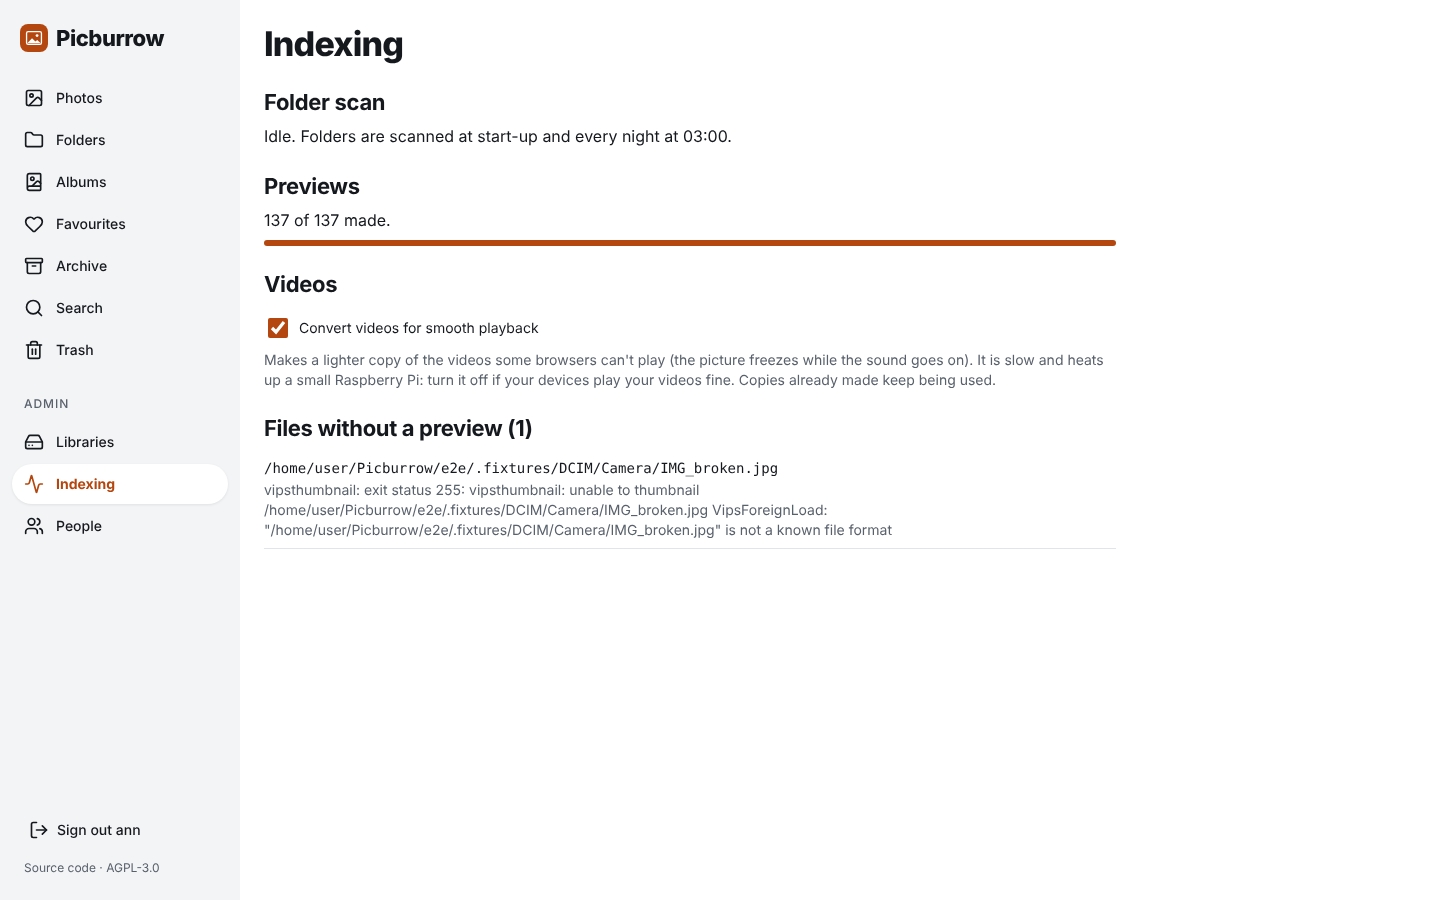
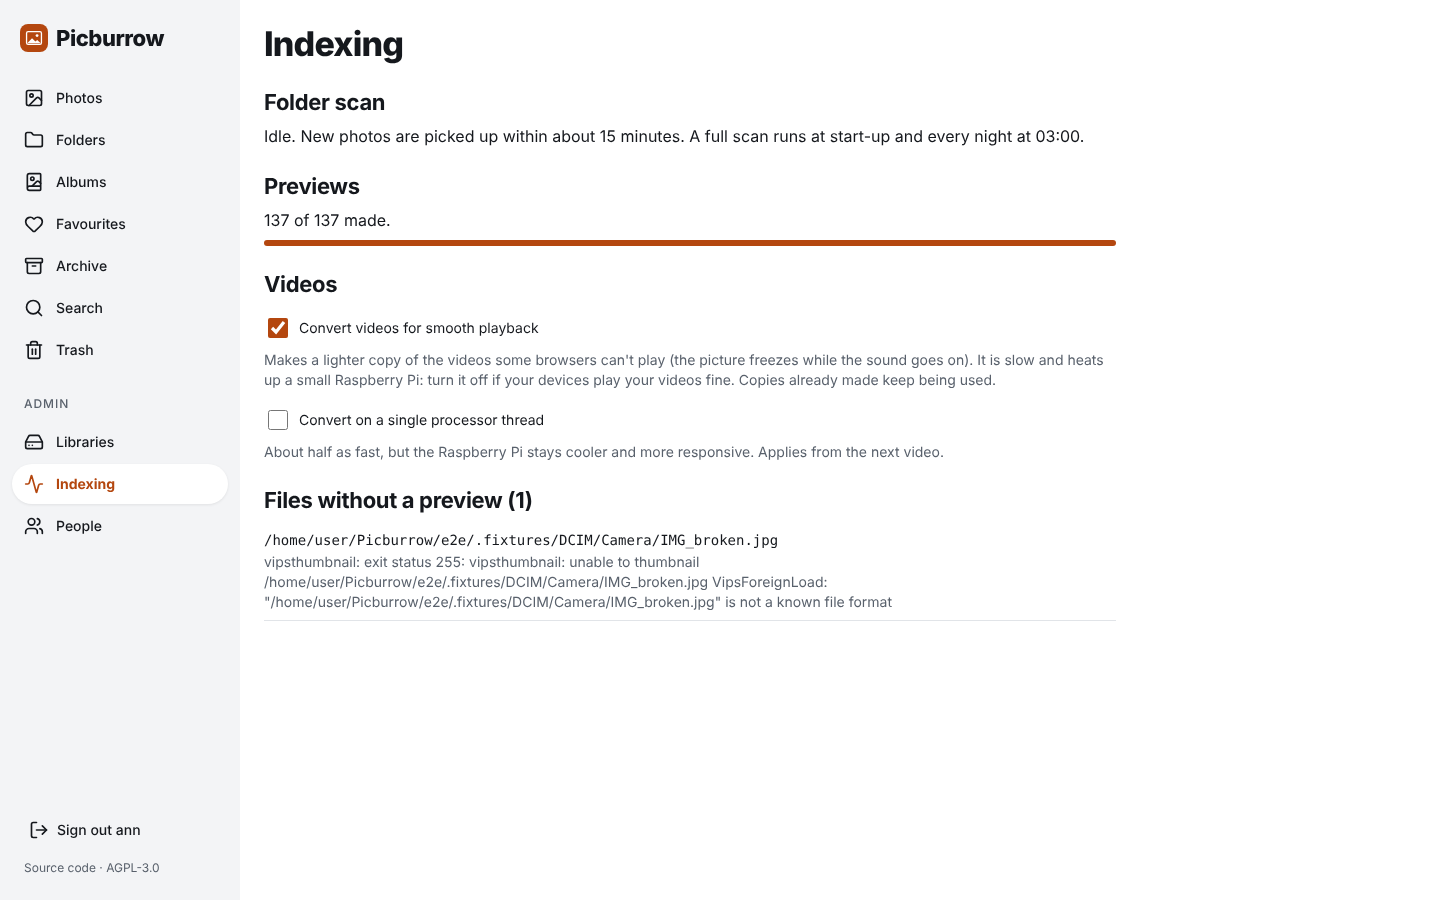
New photos are picked up within 15 minutes
A photo synced at noon used to appear after the 03:00 scan. Every 15 minutes the
server now stats each folder the last scan saw (no folder is read) and scans
only if one changed: a file added, removed or renamed. Files modified in the
last 10 minutes are watched too, since an upload still in progress grows
without touching its folder's time. An offline folder is noticed when it
comes back.

The time of the nightly run is now kept across quick checks, so one that runs
past 03:00 cannot skip the night's scan, session cleanup and trash purge.

Indexing page and landing page say so; features.csv row done; parity 87.9.
Test: TestFoldersChanged.

Claude-Session: https://claude.ai/code/session_01PH99K8F4EezHs6i4AhQLDN

Changed region(s): [[0.1875, 0.4667, 0.6562, 0.6844], [0.2188, 0.1244, 0.75, 0.1556]]

diff --git a/docs/index.html b/docs/index.html
@@ -175,7 +175,7 @@
   <h2>Questions</h2>
   <details><summary>Will it run on my Pi 3?</summary><p>It is built for 64-bit Raspberry Pi OS on a Pi 3, 4 or 5 with 1 GB of memory, and stayed well under that on a 64-bit test machine. Testing on real Pi boards is still in progress, so please tell us what you see.</p></details>
   <details><summary>Does it change my photos?</summary><p>No. It only reads them. Its own data (previews, albums, favourites) lives in a separate folder.</p></details>
-  <details><summary>How do photos get from my phone to the Pi?</summary><p>With the sync app you already use: Syncthing, your NAS's app, anything that copies files into a folder. Picburrow shows whatever lands there.</p></details>
+  <details><summary>How do photos get from my phone to the Pi?</summary><p>With the sync app you already use: Syncthing, your NAS's app, anything that copies files into a folder. Picburrow shows whatever lands there, within about 15 minutes.</p></details>
   <details><summary>Can I move over from another photo app?</summary><p>If that app keeps your originals in normal folders, point Picburrow at them. Albums and faces from other apps are not imported.</p></details>
   <details><summary>Does it recognise faces, or search for "beach"?</summary><p>No, on purpose. Those need several gigabytes of memory, which is exactly what Picburrow exists to avoid.</p></details>
   <details><summary>Can I see my photos away from home?</summary><p>Yes. The easiest safe way is Tailscale: a free app on the Pi and on your phone, about ten minutes, and nothing is opened to the internet. Picburrow has no HTTPS of its own, so don't open its port straight to the internet. <a href="https://github.com/oPercentOps/Picburrow/blob/main/docs/remote-access.md">Step-by-step guide</a>.</p></details>

diff --git a/web/src/lib/fr.ts b/web/src/lib/fr.ts
@@ -81,7 +81,7 @@ export const fr: Record<string, string> = {
   "Full screen": "Plein écran",
   "Give the album a name (up to 200 characters)": "Donnez un nom à l'album (200 caractères maximum)",
   "Give the library a name (up to 100 characters)": "Donnez un nom à la bibliothèque (100 caractères maximum)",
-  "Idle. Folders are scanned at start-up and every night at 03:00.": "Au repos. Les dossiers sont analysés au démarrage et chaque nuit à 03:00.",
+  "Idle. New photos are picked up within about 15 minutes. A full scan runs at start-up and every night at 03:00.": "Au repos. Les nouvelles photos sont détectées en 15 minutes environ. Une analyse complète a lieu au démarrage et chaque nuit à 03:00.",
   "Indexing": "Indexation",
   "Invalid JSON": "JSON invalide",
   "It may have expired, or the owner turned it off. Ask them for a new one.": "Il a peut-être expiré, ou son propriétaire l'a désactivé. Demandez-lui un nouveau lien.",

diff --git a/web/src/routes/admin/jobs/+page.svelte b/web/src/routes/admin/jobs/+page.svelte
@@ -40,7 +40,7 @@
   {#if jobs}
     <section aria-labelledby="scan-h">
       <h2 id="scan-h">{t('Folder scan')}</h2>
-      <p role="status">{jobs.scanning ? t('Scanning: {n} new or changed files so far', { n: jobs.scan_found.toLocaleString() }) : t('Idle. Folders are scanned at start-up and every night at 03:00.')}</p>
+      <p role="status">{jobs.scanning ? t('Scanning: {n} new or changed files so far', { n: jobs.scan_found.toLocaleString() }) : t('Idle. New photos are picked up within about 15 minutes. A full scan runs at start-up and every night at 03:00.')}</p>
       {#if jobs.scan_error}<p class="error-msg">{jobs.scan_error}</p>{/if}
     </section>
     <section aria-labelledby="th-h">

diff --git a/server/scan.go b/server/scan.go
@@ -9,6 +9,7 @@ import (
 	"io"
 	"io/fs"
 	"log"
+	"maps"
 	"os"
 	"path/filepath"
 	"regexp"
@@ -31,6 +32,7 @@ type scanState struct {
 	again   bool // a scan was requested while one was running
 	found   int
 	lastErr string
+	watch   map[string]int64 // folders (and files still being written) -> modified time at the last scan
 }
 
 type existing struct {
@@ -106,12 +108,22 @@ func (a *App) scanLibrary(libID int64) error {
 				}
 				return nil
 			}
-			if d.IsDir() || !d.Type().IsRegular() || !mediaExt[strings.ToLower(filepath.Ext(p))] {
+			if d.IsDir() {
+				if info, err := d.Info(); err == nil {
+					a.noteWatch(p, info.ModTime())
+				}
+				return nil
+			}
+			if !d.Type().IsRegular() || !mediaExt[strings.ToLower(filepath.Ext(p))] {
 				return nil
 			}
 			info, err := d.Info()
 			if err != nil {
 				return nil
+			}
+			// a file a sync tool may still be writing: growing in place doesn't touch its folder's time
+			if time.Since(info.ModTime()) < 10*time.Minute {
+				a.noteWatch(p, info.ModTime())
 			}
 			seen[p] = true
 			files++
@@ -130,6 +142,9 @@ func (a *App) scanLibrary(libID int64) error {
 		})
 		if err != nil {
 			walkErrs = append(walkErrs, err.Error())
+		}
+		if rootErr {
+			a.noteWatch(root, time.Time{}) // so the quick check notices when it comes back
 		}
 		// An unmounted share is usually an empty mount-point dir: zero files where we had some = offline.
 		if rootErr || (files == 0 && hasKnownUnder(known, root)) {
@@ -363,6 +378,9 @@ func (a *App) claimScan() bool {
 func (a *App) runScans() {
 	defer a.wakeThumbs()
 	for {
+		a.scan.mu.Lock()
+		a.scan.watch = nil
+		a.scan.mu.Unlock()
 		ids, err := queryIDs(a.db, "select id from libraries")
 		if err != nil {
 			log.Printf("scan: %v", err)
@@ -384,6 +402,46 @@ func (a *App) runScans() {
 		a.scan.again = false
 		a.scan.mu.Unlock()
 	}
+}
+
+func (a *App) noteWatch(p string, mod time.Time) {
+	a.scan.mu.Lock()
+	defer a.scan.mu.Unlock()
+	if a.scan.watch == nil {
+		a.scan.watch = map[string]int64{}
+	}
+	a.scan.watch[p] = modNano(mod)
+}
+
+func modNano(t time.Time) int64 {
+	if t.IsZero() {
+		return 0
+	}
+	return t.UnixNano()
+}
+
+// foldersChanged reports whether anything noted by the last scan has a different modified time now: a file
+// was added to, removed from or renamed in a folder, or a file that was being written has grown. It is one
+// stat per folder and reads no folder, so it can run every few minutes on a Pi without keeping disks busy.
+// shortcut: an old file rewritten in place, or a filesystem that doesn't update folder times, waits for the 03:00 scan.
+func (a *App) foldersChanged() bool {
+	a.scan.mu.Lock()
+	if a.scan.running {
+		a.scan.mu.Unlock()
+		return false
+	}
+	watch := maps.Clone(a.scan.watch)
+	a.scan.mu.Unlock()
+	for p, was := range watch {
+		var now int64 // 0 = not there, same as an offline folder
+		if info, err := os.Lstat(p); err == nil {
+			now = modNano(info.ModTime())
+		}
+		if now != was {
+			return true
+		}
+	}
+	return false
 }
 
 func queryIDs(db *sql.DB, q string, args ...any) ([]int64, error) {

diff --git a/server/app_test.go b/server/app_test.go
@@ -299,6 +299,49 @@ func waitScan(t *testing.T, a *App) {
 	t.Fatal("scan did not finish in 30 s")
 }
 
+// A photo a sync tool drops into a folder is noticed by the quick check (one stat per folder), and so is a
+// file that was still being written when it was first indexed.
+func TestFoldersChanged(t *testing.T) {
+	if _, err := exec.LookPath("exiftool"); err != nil {
+		t.Skip("exiftool not installed")
+	}
+	lib := t.TempDir()
+	sub := filepath.Join(lib, "2024")
+	os.MkdirAll(sub, 0o755)
+	os.WriteFile(filepath.Join(sub, "a.jpg"), []byte("x"), 0o644)
+	a, srv := newTestApp(t)
+	if code := post(t, client(t), srv.URL+"/api/setup", `{"username":"ann","password":"correct horse","path":"`+lib+`"}`); code != 200 {
+		t.Fatalf("setup: %d", code)
+	}
+	waitScan(t, a)
+	count := func() (n int) {
+		a.db.QueryRow("select count(*) from assets where missing_at is null").Scan(&n)
+		return
+	}
+	if a.foldersChanged() {
+		t.Fatal("nothing changed, but the quick check asks for a scan")
+	}
+	time.Sleep(20 * time.Millisecond) // file systems stamp times in coarse steps
+	os.WriteFile(filepath.Join(sub, "b.jpg"), []byte("y"), 0o644)
+	if !a.foldersChanged() {
+		t.Fatal("a new file in a subfolder was not noticed")
+	}
+	a.scanAll()
+	if count() != 2 || a.foldersChanged() {
+		t.Fatalf("after the scan: %d photos (want 2), still changed: %v", count(), a.foldersChanged())
+	}
+	time.Sleep(20 * time.Millisecond)
+	os.WriteFile(filepath.Join(sub, "b.jpg"), []byte("yyyy"), 0o644) // grows in place: the folder's time stays
+	if !a.foldersChanged() {
+		t.Fatal("a file that was still being written was not noticed")
+	}
+	a.scanAll()
+	os.RemoveAll(sub)
+	if !a.foldersChanged() {
+		t.Fatal("a removed folder was not noticed")
+	}
+}
+
 // TestScanRequestDuringScanIsNotLost: the bug where a library edited mid-scan was ignored until the nightly scan.
 func TestScanRequestDuringScanIsNotLost(t *testing.T) {
 	a, _ := newTestApp(t)

diff --git a/server/main.go b/server/main.go
@@ -84,22 +84,34 @@ func main() {
 	}
 }
 
-// housekeeping: scan at start and nightly at 03:00 local; daily cleanup of expired sessions.
+// housekeeping: scan at start and nightly at 03:00 local; every 15 minutes in between, scan again only if a
+// folder changed, so photos a sync tool drops in show up soon; daily cleanup of expired sessions.
 func (a *App) housekeeping(ctx context.Context) {
 	a.scanAll()
-	for {
+	quick := time.NewTicker(15 * time.Minute)
+	defer quick.Stop()
+	next3 := func() time.Time {
 		now := time.Now()
 		next := time.Date(now.Year(), now.Month(), now.Day(), 3, 0, 0, 0, now.Location())
 		if !next.After(now) {
 			next = next.AddDate(0, 0, 1)
 		}
+		return next
+	}
+	next := next3() // kept across quick checks: one that runs past 03:00 must not skip the night's work
+	for {
 		select {
 		case <-ctx.Done():
 			return
+		case <-quick.C:
+			if a.foldersChanged() {
+				a.scanAll()
+			}
 		case <-time.After(time.Until(next)):
 			a.db.Exec("delete from sessions where expires_at < unixepoch()")
 			a.scanAll()
 			a.purgeTrash()
+			next = next3()
 		}
 	}
 }

diff --git a/replica/parity.md b/replica/parity.md
@@ -4,15 +4,15 @@ Build: 0.1.8 (028e65c): + video playback copies, shared family library, slidesho
 
 | | score |
 | --- | --- |
-| **Overall** | **86.8** (features only; layout not measured, see below) |
-| Features | 86.8 / 100, must-haves **18 of 18**, should-haves **11 of 12** (one partial) |
+| **Overall** | **87.9** (features only; layout not measured, see below) |
+| Features | 87.9 / 100, must-haves **18 of 18**, should-haves **12 of 12** |
 | Layout | not measured |
 | Open bugs | 0 S1, 0 S2 (`replica/bugs.md`) |
 | Tests at this build | `make test` green; e2e 60 passed (the 5 skips are phone-only tests skipped in the desktop run; they pass in the phone run) |
 
 **Verdict: shippable** by this report's bar: every must-have works, the feature score reaches 80, and no S1 or S2 bug is open (`replica/bugs.md`). That is a family/LAN release; the real-hardware checks below still decide whether it is a *Raspberry Pi 3* release.
 
-Down from 87.6 the same day: the review research (`replica/fixes.md`, M5) found a should-have the matrix lacked, and Picburrow only half does it: new photos are picked up at start-up, at 03:00 or on Scan now, not within minutes. The verdict does not change.
+Up from 86.8 the same day. The review research (`replica/fixes.md`, M5) found a should-have the matrix lacked: new photos picked up within minutes, not at 03:00. It was built the same day (a quick folder check every 15 minutes), so the row is now done.
 
 What moved between 87.1 and 87.6:
 
@@ -21,24 +21,23 @@ What moved between 87.1 and 87.6:
 - Two rows the matrix was missing, both in Immich: **slideshow** (done) and **interface languages** (partial: English and French against dozens).
 - **Sleep mode** (photo frame) is ours; not scored.
 
-Between those two reports the score barely moved: one should-have was added and done, the other new rows are could-haves, and two of those are partial. Apart from the rescan row above, everything still missing is a could-have.
+Between those two reports the score barely moved: one should-have was added and done, the other new rows are could-haves, and two of those are partial. Everything still missing is a could-have.
 
 ## Feature parity (parity.py)
 
-features 86.8  (44 counted, must-haves 18 of 18 done)
+features 87.9  (44 counted, must-haves 18 of 18 done)
 
 ## By area, weakest first
 - search                        66.7  (2 features)
 - organize                      75.0  (8 features)
 - sharing                       83.3  (2 features)
 - clients                       83.3  (2 features)
-- library                       86.4  (9 features)
 - browse                        88.9  (8 features)
+- library                       90.9  (9 features)
 - view                          92.0  (11 features)
 - auth                         100.0  (2 features)
 
 ## Missing, in build order
-- [should] library: New photos appear within minutes of landing in the folder (no cron, no button), partial  (scan at start-up, 03:00 and on Scan now only)
 - [could] browse: Map of geotagged photos, no  (needs map tiles from an external provider)
 - [could] browse: On this day / memories, no
 - [could] library: Write favourites/albums back to XMP sidecars, no  (Immich silently fails on read-only mounts; we store in DB and only write sidecars when the mount is writable, with a visible warning otherwise)
@@ -128,10 +127,10 @@ The 48 MP case is over the 350 MB target set in `architecture.md`. It still fits
 
 Reordered by what users of the originals say (`replica/fixes.md`, round 2):
 
-1. **New photos appear within minutes**: a light rescan every 15 minutes. The only should-have not fully done.
-2. **The real-hardware pass**: a 1 GB Pi 3 with real iPhone HEICs and live photos, memory during a video conversion, Safari on an iPhone, a screen reader. Still open in `deploy.md` and `test-plan.md`; it decides the release.
-3. **On this day**: a small row on the timeline.
-4. **Share a library with an account that already exists**: turns partner sharing from partial to done; the membership table is already there.
-5. **Rotate**, stored in the database and applied to previews.
+1. **The real-hardware pass**: a 1 GB Pi 3 with real iPhone HEICs and live photos, memory during a video conversion, Safari on an iPhone, a screen reader. Still open in `deploy.md` and `test-plan.md`; it decides the release.
+2. **On this day**: a small row on the timeline.
+3. **Share a library with an account that already exists**: turns partner sharing from partial to done; the membership table is already there.
+4. **Rotate**, stored in the database and applied to previews.
+5. **XMP sidecar read**: keywords, ratings and descriptions other tools wrote next to the photos.
 
-Then XMP sidecar read and the duplicate finder. Outside the code: a tested guide for getting phone photos into the folder.
+Then the duplicate finder. Outside the code: a tested guide for getting phone photos into the folder.

diff --git a/replica/fixes.md b/replica/fixes.md
@@ -73,7 +73,7 @@ Second pass, 2026-11-14. The first pass (2026-11-13) had one source; this one ha
 - "A cron job that runs the `photoprism import` command every few minutes." https://midwest.social/comment/12517455
 - "I simply sync the Photos from my smartphone to a folder and make PhotoPrism scan it on a regular basis using ofelia." https://lemmy.sdf.org/comment/13463630
 - "I use a folder sync app, to upload all my pictures from my phone to a directory on my server, which PhotoPrism imports from every 15 mins(Might be a bit more or less)." https://endlesstalk.org/comment/6065284
-- **Picburrow has this gap today**: it scans at start-up, at 03:00 and when an admin presses Scan now (`server/main.go`). A photo synced at noon appears the next morning.
+- **Picburrow had this gap until 2026-11-14**: it scanned at start-up, at 03:00 and on Scan now, so a photo synced at noon appeared the next morning. Fixed by fix 9.
 
 **M1. A library the whole family sees** (3 sources, 1 comment each: thin)
 - "It only lets 2 users to share and view the photos in the same timeline, while the third user can only view photos from one another user in timeline." (1 star) https://apps.apple.com/in/app/immich/id1613945652?see-all=reviews#13851507950
@@ -154,7 +154,7 @@ Ranked by evidence times cheapness.
 
 | # | what | evidence | size | skill |
 | --- | --- | --- | --- | --- |
-| 9 | **New photos appear within minutes**: a light rescan every 15 minutes (only folders whose modified time changed), keeping the 03:00 full scan | M5, U1; the gap is real in today's code | S | `/replica-build` |
+| 9 | **New photos appear within minutes**: every 15 minutes, a scan if any folder's modified time changed; the 03:00 full scan stays | M5, U1 | S | **done** 2026-11-14 (`TestFoldersChanged`) |
 | 10 | **A tested guide for getting phone photos into the folder**, iPhone and Android, one sync tool each, linked from the empty timeline after setup | the evidence against our approach, H5 | S (writing) + phones to test on | `/replica-launch` docs; can't be tested from a build box |
 | 11 | **On this day**: a row at the top of the timeline when earlier years have photos from today | M6, U3 (thin) | S | `/replica-build` |
 | 12 | **Share a library with an account that already exists**, and let a person have their own folder plus a shared one | M1 (thin, 3 sources) | S | `/replica-build` |

diff --git a/replica/build-log.md b/replica/build-log.md
@@ -28,6 +28,7 @@ Checked by `server/app_test.go` (Go, real files), `e2e/slice.cjs` and `e2e/miles
 | S17 | More (phones) | 2026-11-13 | done | — | BUG-011: half the app was unreachable on phones since milestone 2 |
 | — | fixes from user research (install, SD warning, backups, capture details, batch rating) | 2026-11-13 | done | service start on a real Pi; SD warning seen on a real SD card | capture details read on demand: storing them would force a re-read that also regenerates every preview |
 | — | live photos, ratings | 2026-11-13 | done | Google/Samsung motion photos (video embedded in the JPEG) | first schema migration; clips must be hidden from every list, and still reachable through share links |
+| — | new photos picked up within 15 minutes (fixes.md fix 9) | 2026-11-14 | done | an open timeline page shows them after a reload; the 15-minute timer itself is not exercised by a test, only the check it calls | a file still being uploaded grows without touching its folder's time, so recent files are watched too; a quick check running past 03:00 would have skipped the night's scan and trash purge |
 
 ## Backend findings
 

diff --git a/replica/architecture.md b/replica/architecture.md
@@ -77,7 +77,7 @@ Routes: 30 rows (36 endpoints counting each method).
 Webhooks in: none. Webhooks out: none.
 
 Jobs:
-- **scan**, on start, nightly 03:00 local, and on demand: walk import paths, skip exclusion globs, upsert by `(library_id, path)` when size/mtime changed, read metadata via exiftool, pair live photos, mark vanished files `missing_at`, relink moved files by quick_hash.
+- **scan**, on start, nightly 03:00 local, on demand, and every 15 minutes when a folder's modified time changed since the last scan (one stat per folder, no folder read): walk import paths, skip exclusion globs, upsert by `(library_id, path)` when size/mtime changed, read metadata via exiftool, pair live photos, mark vanished files `missing_at`, relink moved files by quick_hash.
 - **thumbs**, continuous at low priority (`nice 10`, `ionice idle`): take from `assets_todo`, newest first so the top of the timeline fills first; write small (~360 px) + large (~1440 px) WebP and the thumbhash.
 - **purge**, daily: delete DB rows (never files) and thumbnails for assets missing more than 30 days.
 - **sessions cleanup**, daily: delete expired sessions.
